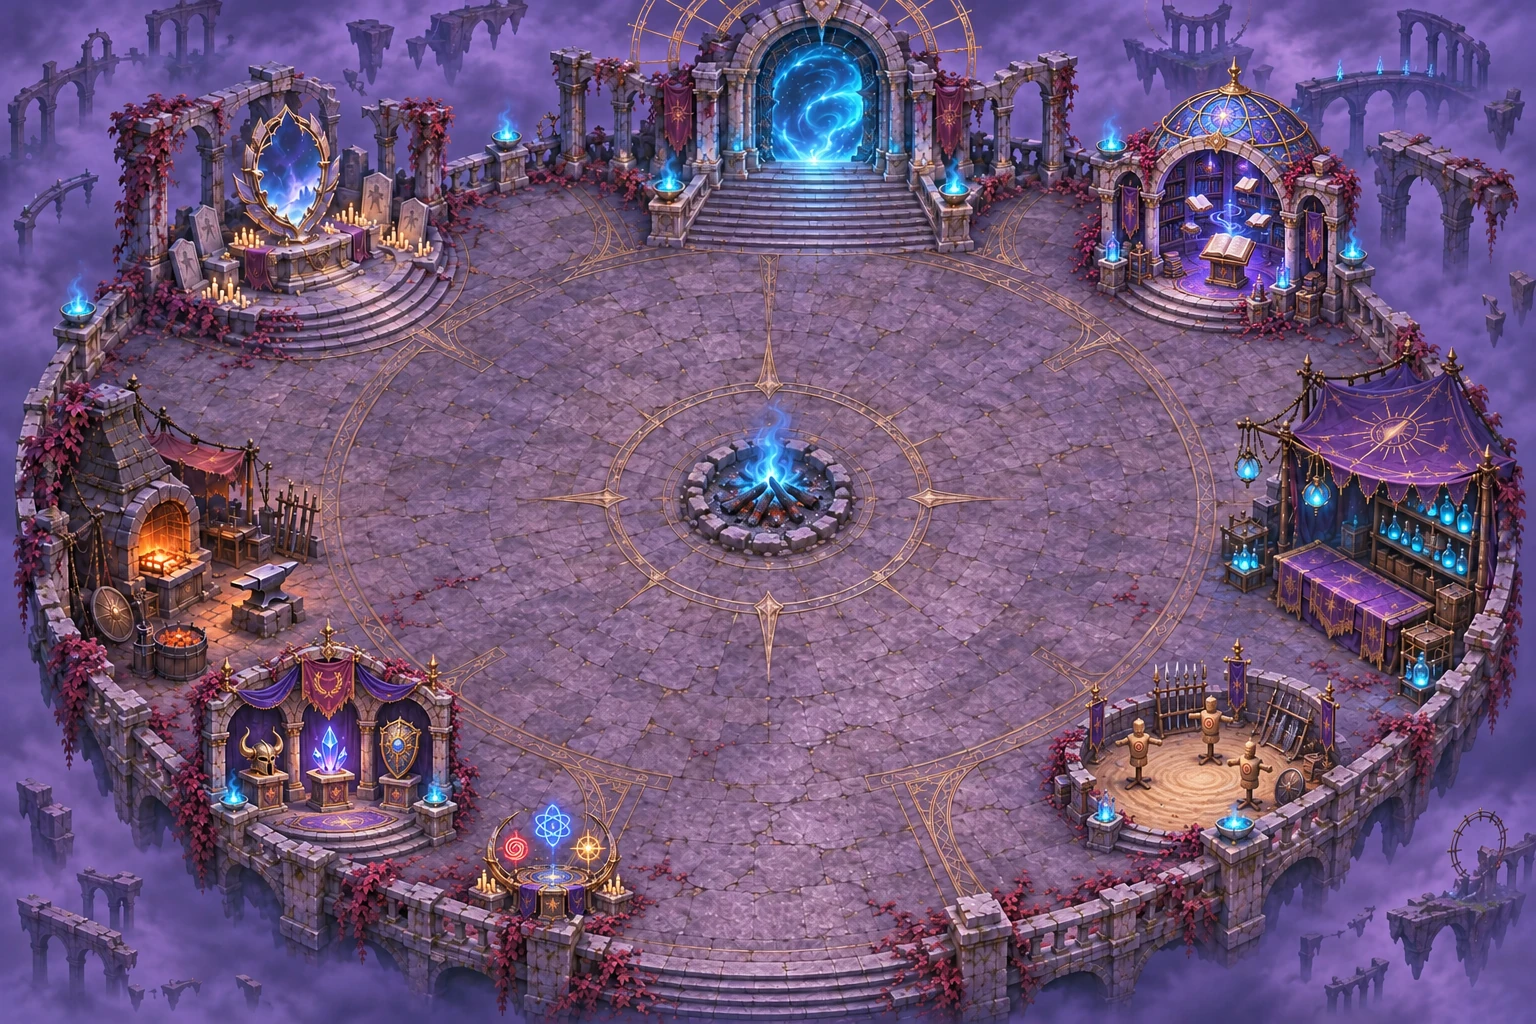
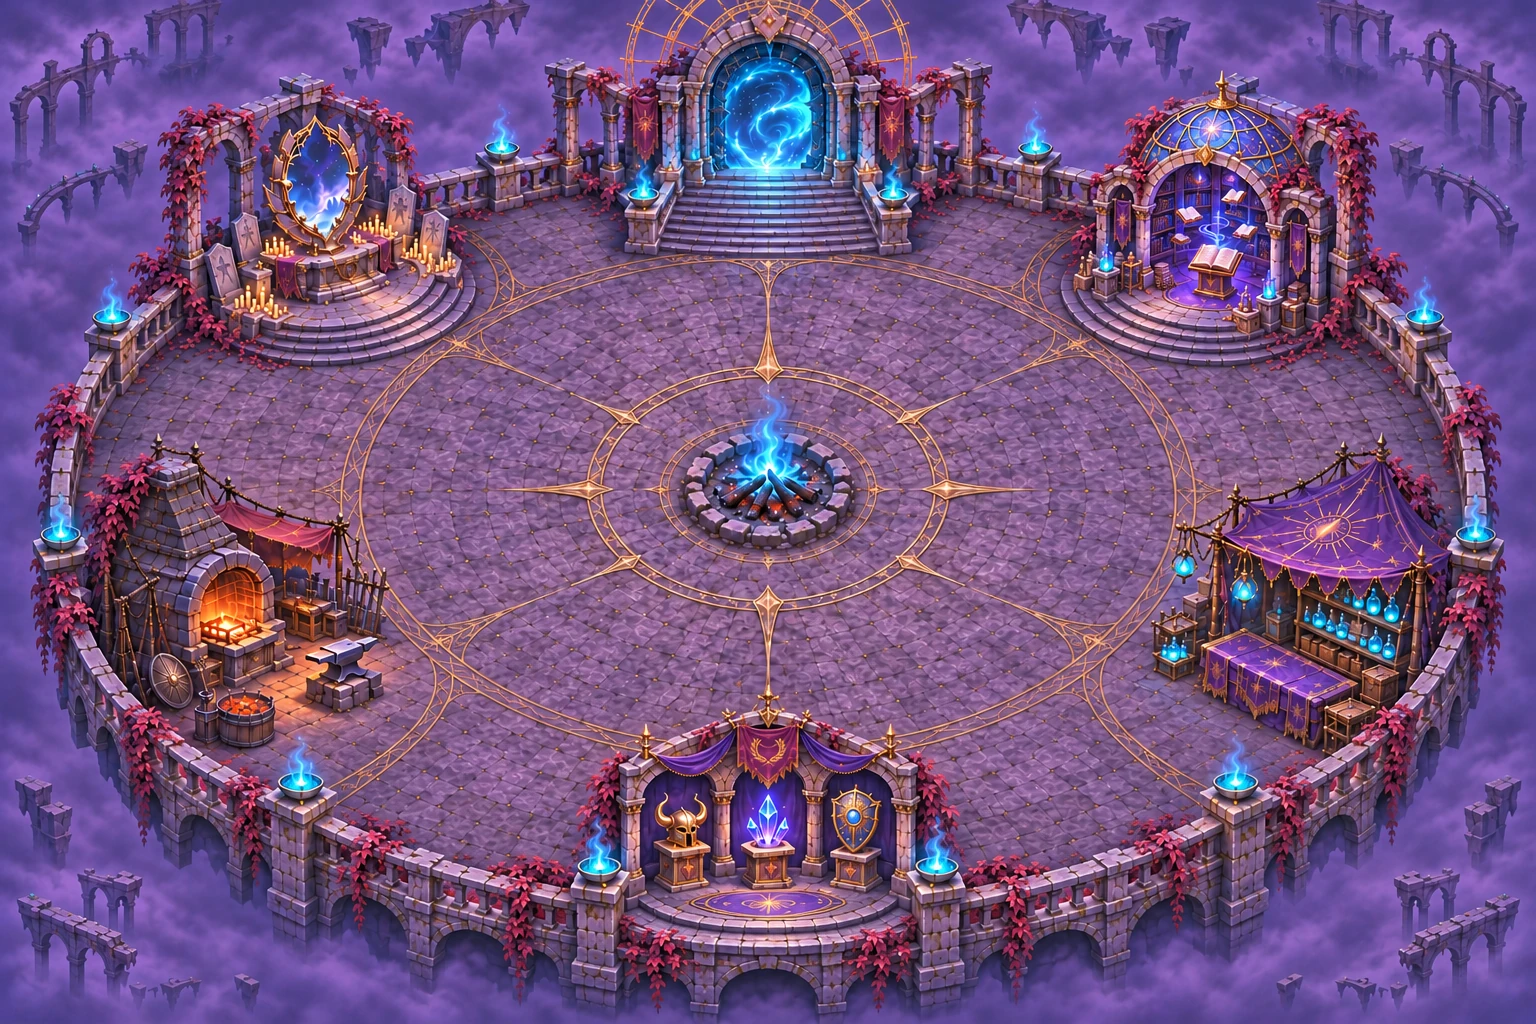
v122: Междумирье v3 — симметричный фон, места расставлены заново

diff --git a/limbo.js b/limbo.js
@@ -4,7 +4,7 @@
 //   кузница (слева) — прокачка способностей за золото (навсегда), шатёр Хранителя Перепутья (справа) — лавка предметов и
 //   фласок, святилище с зеркалом (слева вверху) — продажа предметов, лестница к порталу (вверху) — назад в мир, к началу
 //   текущей волны (или боя с боссом); перед этим коротко показывается карта «Путь героев».
-//   v122: библиотека Альма-матер (справа вверху) — справочник, Зал трофеев (слева внизу) — витрина побед (оба экрана — alma.js).
+//   v122: библиотека Альма-матер (справа вверху) — справочник, Зал трофеев (внизу по центру) — витрина побед (оба экрана — alma.js).
 // Картинки — ChatGPT (limbo/): фон площади, кадры голубого пламени, столп света, кольцо душ, Хранитель, призраки.
 // Пламя, призраки, свет и искры оживляет игра. В онлайне — своя версия на сервере (у каждого игрока своё Междумирье).
 'use strict';
@@ -13,23 +13,25 @@ const LIMBO = (() => {
   const im = n => { if (!IM[n]) { const i = new Image(); i.src = 'limbo/' + n + '.webp' + V; IM[n] = i; } return IM[n]; };
   const ok = i => i && i.complete && i.naturalWidth > 0;
   // всё в долях картинки фона (подогнано под нарисованную площадь)
+  // v122 (фон hub_v3, симметричный): портал вверху по центру, костёр в центре, зеркало и Альма-матер — слева и справа вверху,
+  // кузница и лавка — слева и справа, Зал трофеев — внизу по центру, напротив портала.
   const L = {
     size: [1536, 1024],
-    plaza: { c: [0.5, 0.57], r: [0.44, 0.38] },       // ходить можно внутри эллипса площади
-    fire: [0.502, 0.48],
+    plaza: { c: [0.5, 0.52], r: [0.43, 0.32] },       // ходить можно внутри эллипса площади
+    fire: [0.5, 0.476],
     st: {   // места: где стоят, радиус срабатывания (в долях ширины), что открывают
-      forge: { p: [0.22, 0.6], R: 0.07, nm: 'Кузница', hint: 'прокачка способностей' },
-      shop: { p: [0.81, 0.6], R: 0.07, nm: 'Хранитель Перепутья', hint: 'предметы; склянки — на своей вкладке' },
-      mirror: { p: [0.25, 0.3], R: 0.065, nm: 'Святилище зеркала', hint: 'продажа предметов' },
-      portal: { p: [0.53, 0.22], R: 0.06, nm: 'Портал', hint: 'назад в мир' },
-      alma: { p: [0.745, 0.325], R: 0.055, nm: 'Альма-матер', hint: 'справочник: враги и предметы' },      // v122: библиотека справа вверху (alma.js)
-      trophy: { p: [0.305, 0.80], R: 0.055, nm: 'Зал трофеев', hint: 'трофеи боссов и рекорды' },          // v122: слева внизу
+      forge: { p: [0.265, 0.63], R: 0.06, nm: 'Кузница', hint: 'прокачка способностей' },
+      shop: { p: [0.735, 0.63], R: 0.06, nm: 'Хранитель Перепутья', hint: 'предметы; склянки — на своей вкладке' },
+      mirror: { p: [0.265, 0.34], R: 0.06, nm: 'Святилище зеркала', hint: 'продажа предметов' },
+      portal: { p: [0.5, 0.262], R: 0.055, nm: 'Портал', hint: 'назад в мир' },
+      alma: { p: [0.735, 0.34], R: 0.06, nm: 'Альма-матер', hint: 'справочник: враги и предметы' },      // библиотека (alma.js)
+      trophy: { p: [0.5, 0.672], R: 0.055, nm: 'Зал трофеев', hint: 'трофеи боссов и рекорды' },          // витрина побед (alma.js)
     },
-    // v122 (новый фон hub_v2): + библиотека, зал трофеев, тренировочный круг и алтарь с рунами (последние два — просто часть площади)
-    solid: [[0.502, 0.48, 0.055, 0.045], [0.12, 0.56, 0.08, 0.09], [0.9, 0.56, 0.07, 0.1], [0.19, 0.18, 0.1, 0.06],
-      [0.80, 0.20, 0.075, 0.075], [0.215, 0.735, 0.075, 0.06], [0.775, 0.755, 0.07, 0.055], [0.36, 0.855, 0.04, 0.035]],
-    keeper: [0.86, 0.62], mourn: [0.255, 0.27],
-    stairs: [[0.535, 0.36], [0.535, 0.15]],             // по ним бредут призраки к порталу
+    // препятствия: костёр, кузница, шатёр, зеркало, библиотека, зал трофеев
+    solid: [[0.5, 0.478, 0.055, 0.045], [0.15, 0.59, 0.1, 0.1], [0.86, 0.6, 0.105, 0.1], [0.215, 0.215, 0.09, 0.085],
+      [0.785, 0.215, 0.09, 0.085], [0.5, 0.8, 0.1, 0.095]],
+    keeper: [0.79, 0.685], mourn: [0.285, 0.29],
+    stairs: [[0.5, 0.3], [0.5, 0.14]],             // по ним бредут призраки к порталу
   };
   const S = { on: false, phase: '', t: 0, from: 0, back: null, near: null, opened: null, ghosts: [], parts: [], fl: 0 };
   const W2 = () => L.size[0] * AK, H2 = () => L.size[1] * AK;

diff --git a/tools/alma_check.py b/tools/alma_check.py
@@ -65,9 +65,12 @@ try:
         chk('к каждому месту можно подойти (точка на площади и не внутри препятствия)', all(v['plaza'] and not v['solid'] for v in s.values()), s)
         z = p.evaluate("(() => { window.__z = cam.z; return 1; })()")
         shot(p, '1_plaza_fire')
-        for pl in ('alma', 'trophy'):
-            walk(p, pl); p.evaluate("ALMA.close()"); time.sleep(0.5); shot(p, '1_plaza_' + pl)
+        for pl in ('forge', 'shop', 'mirror', 'alma', 'trophy'):      # снимок площади с героем у каждого места (окна закрыты)
+            walk(p, pl); p.evaluate("(() => { ALMA.close(); if (SHOP.open) SHOP.closeShop(); const f = document.getElementById('forge'); if (f) f.style.display = 'none'; })()"); time.sleep(0.5); shot(p, '1_plaza_' + pl)
             away(p)
+        p.evaluate("(() => { const L = LIMBO.L, s = L.st.portal; P.x = s.p[0] * L.size[0] * AK; P.y = (s.p[1] + 0.07) * L.size[1] * AK; })()"); time.sleep(0.8); shot(p, '1_plaza_portal'); away(p)
+        s = p.evaluate("(() => { const L = LIMBO.L, c = L.plaza.c, st = L.st, d = (a, b) => Math.abs(st[a].p[0] - c[0] + st[b].p[0] - c[0]) < 0.011 && Math.abs(st[a].p[1] - st[b].p[1]) < 0.011; return { pairs: d('forge', 'shop') && d('mirror', 'alma'), axis: Math.abs(st.portal.p[0] - 0.5) < 0.011 && Math.abs(st.trophy.p[0] - 0.5) < 0.011 && Math.abs(L.fire[0] - 0.5) < 0.011, solids: L.solid.length }; })()")
+        chk('расстановка зеркальная: кузница — лавка, зеркало — Альма-матер; портал, костёр и Зал трофеев — по центру', s['pairs'] and s['axis'] and s['solids'] == 6, s)
         print('Альма-матер')
         walk(p, 'alma'); time.sleep(0.6)
         chk('подошёл к библиотеке — открылась книга', p.evaluate(VIS, 'almaBook') and p.evaluate("ALMA.cur") == 'book')

diff --git a/tools/emu_alma.py b/tools/emu_alma.py
@@ -42,7 +42,8 @@ print('страница:', pg['url'], '| версия', ev("typeof V === 'string
 PICK = "(() => { const e = document.getElementById('lgPick'), c = document.getElementById('cine'); return !!e && !!c && c.style.display === 'block' && +getComputedStyle(e).opacity > 0.5; })()"
 until("CINE.on", 20)      # запуск: дождаться, что заставки начались (иначе меню «видно» ещё до них)
 t0 = time.time()
-while time.time() - t0 < 150 and not ev("getComputedStyle(document.getElementById('mMain')).display === 'block' && !CINE.on && !document.getElementById('mSplash')"):
+MENU = "getComputedStyle(document.getElementById('mMain')).display === 'block' && !CINE.on && !document.getElementById('mSplash') && LANG.chosen && (document.getElementById('cine') || { style: {} }).style.display !== 'block'"
+while time.time() - t0 < 150 and not (ev(MENU) and (time.sleep(0.7) or ev(MENU))):
     if ev(PICK): time.sleep(1.0); tap_el('#lgPick [data-l=ru]')
     elif ev("!!document.querySelector('#cine .skip')"): time.sleep(1.0); tap_el('#cine .skip')
     time.sleep(0.5)

diff --git a/CLAUDE.md b/CLAUDE.md
@@ -270,7 +270,7 @@
 - Новое событие — через `METRICS.*` одной строкой с проверкой `typeof METRICS !== 'undefined'`. Проверка: `python tools/stats_check.py` (входит в сборку; подставной сервер, обрыв сети, выключатель); автопрогон сверяет, что в логе пройдены все 10 волн мира.
 
 ## v122 (26.11): Междумирье v2 — Альма-матер и Зал трофеев (`alma.js`)
-- Новый фон площади (`limbo/bg.webp` из `hub_v2.png`) и два новых места в `limbo.js` (`L.st.alma`, `L.st.trophy`): подошёл — открывается экран, отошёл — закрывается (как кузница и лавка). Тренировочный круг и алтарь с рунами на картинке — просто часть площади (препятствия).
+- Новый фон площади (`limbo/bg.webp` из `hub_v2.png` = hub_v3, симметричный: портал вверху по центру, зеркало и Альма-матер слева и справа вверху, кузница и лавка слева и справа, Зал трофеев внизу по центру) и два новых места в `limbo.js` (`L.st.alma`, `L.st.trophy`): подошёл — открывается экран, отошёл — закрывается (как кузница и лавка). Все точки площади (`L.st`, `fire`, `plaza`, `solid`, `keeper`, `mourn`, `stairs`) подогнаны под эту картинку.
 - **Альма-матер** — справочник в книге (`alma/book.webp`): вкладки Боссы, Мини-боссы, Враги, Предметы (со склянками и реликвиями). Боссы и мини-боссы — тексты Клауди (`alma/texts.js`), остальное — из данных игры (`KIND`, `ALL`, `FLASKS`). Запись открывается, когда враг впервые вышел на арену или предмет попал в сумку; до этого — силуэт и «???».
 - **Зал трофеев** (`alma/hall.webp`): 10 трофеев (`alma/t_<id босса>.webp`) на постаментах — после победы; нажатие — карточка (когда, каким героем, за сколько секунд); 30 медальонов мини-боссов; кнопка «Рекорды» (лучшая волна, самый быстрый мир, самый сильный крит, миры без смертей). Бонусов трофеи не дают.
 - Портреты врагов — кадр стойки из их же листов (`ALMA.portrait`), силуэт — тот же кадр, затемнённый стилем. Ничего не дорисовывается.
